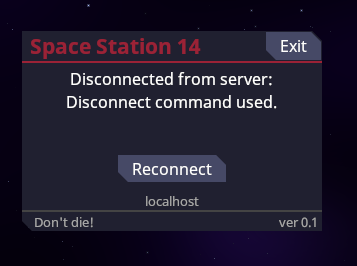
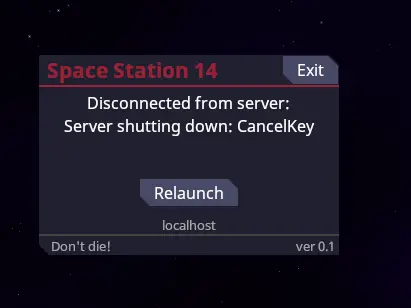
Fix redial progress report statement (#46)

diff --git a/content/post/22-06-25-progress-report-35.md b/content/post/22-06-25-progress-report-35.md
@@ -59,7 +59,7 @@ There is now a system for console command completions. Completions are easy enou
 ### Redial
 *Contributed by 20kdc*
 
-Players are now informed of why they disconnected from the server, and now have a button to immediately reconnect. No more going through the server list to rejoin after every server update.
+Previously, when the server updated or restarted, players would have to close the game and reconnect from the launcher. While the restart of the game still needs to happen (due to needing to update the client as well), it has now been automated - the restart occurs simply by the press of a button.
 
 {{< imgw "/images/post/pr_35/redial" >}}
 
